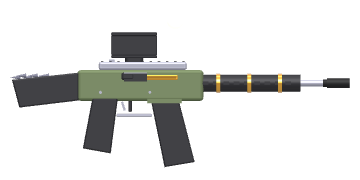
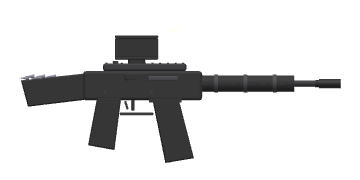
Site: imagem do Fuzil Lobisomem atualizada (preto fosco)

Changed region(s): [[0.0306, 0.1667, 0.9778, 0.9444], [0.1528, 0.5556, 0.1833, 0.5833]]

diff --git a/shared/chromas.js b/shared/chromas.js
@@ -32,7 +32,7 @@ export const CHROMAS = {
     { id: 'ouro', n: 'Boxeador Dourado', gl: '#d9a441', p: { pants: '#d9a441', shoes: '#d9a441' } },
     { id: 'mascara', n: 'Lutador Mascarado', gl: '#6a1b9a', p: { pants: '#6a1b9a', mask: 'balaclava' } }
   ] },
-  ninja: { unique: false, list: [ { id: 'samurai', n: 'Ninja Samurai', as: 'samurai', mult: 1.1, p: {} } ] },
+  ninja: { unique: false, list: [ { id: 'samurai', n: 'Samurai Negro', as: 'samurai', sat: -1, lit: -0.42, mult: 1.1, p: {} } ] },
   guara: { unique: false, list: [
     { id: 'lobomau', n: 'Lobo Mau', sat: -1, lit: -0.12, tintSkin: true, p: {} },
     { id: 'neve', n: 'Lobo da Neve', sat: -1, lit: 0.3, tintSkin: true, p: {} }
